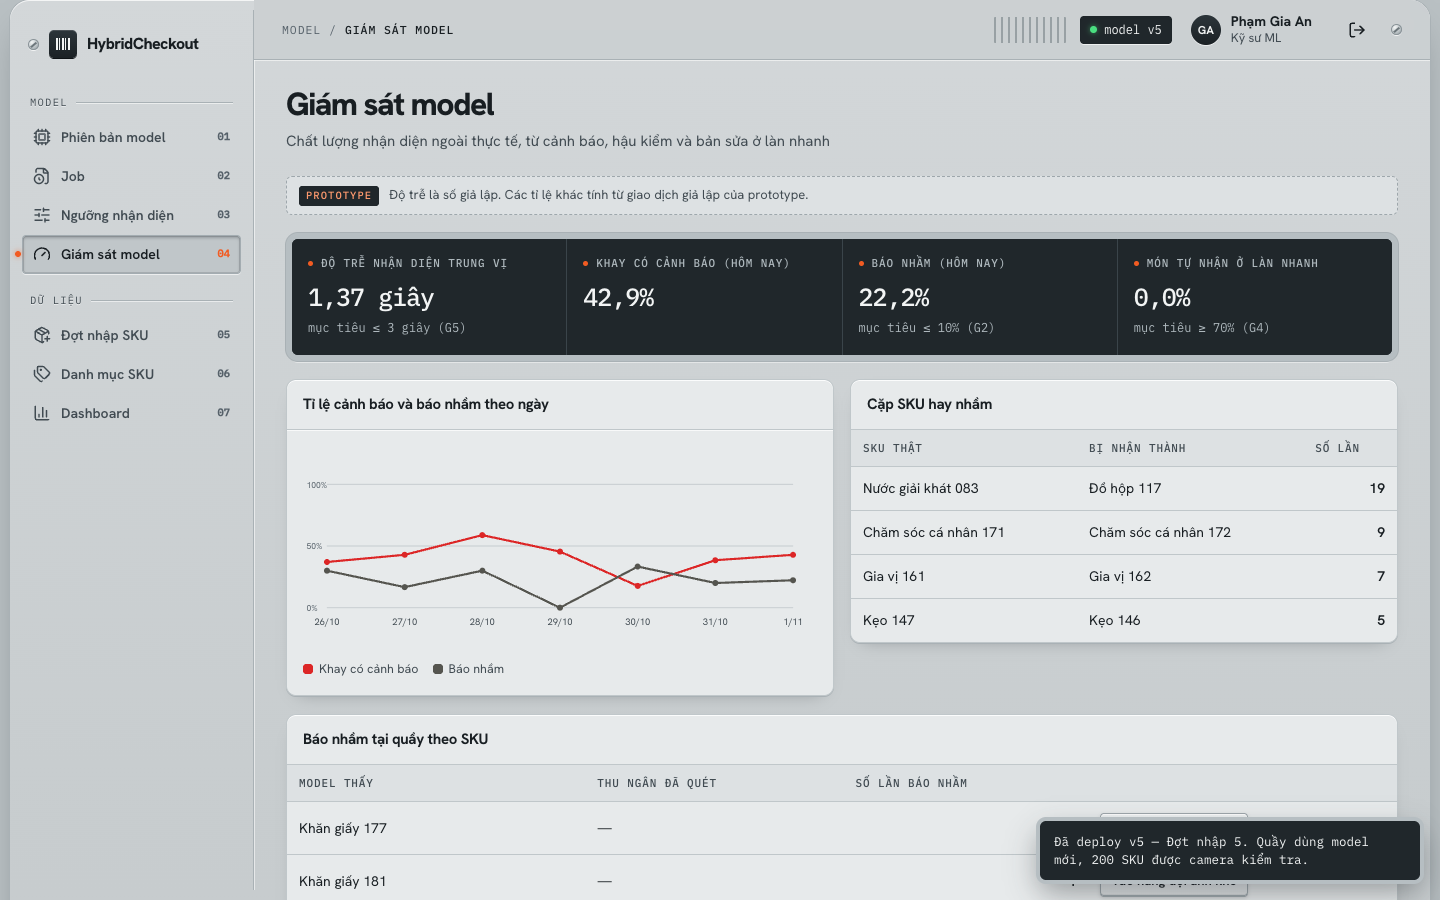
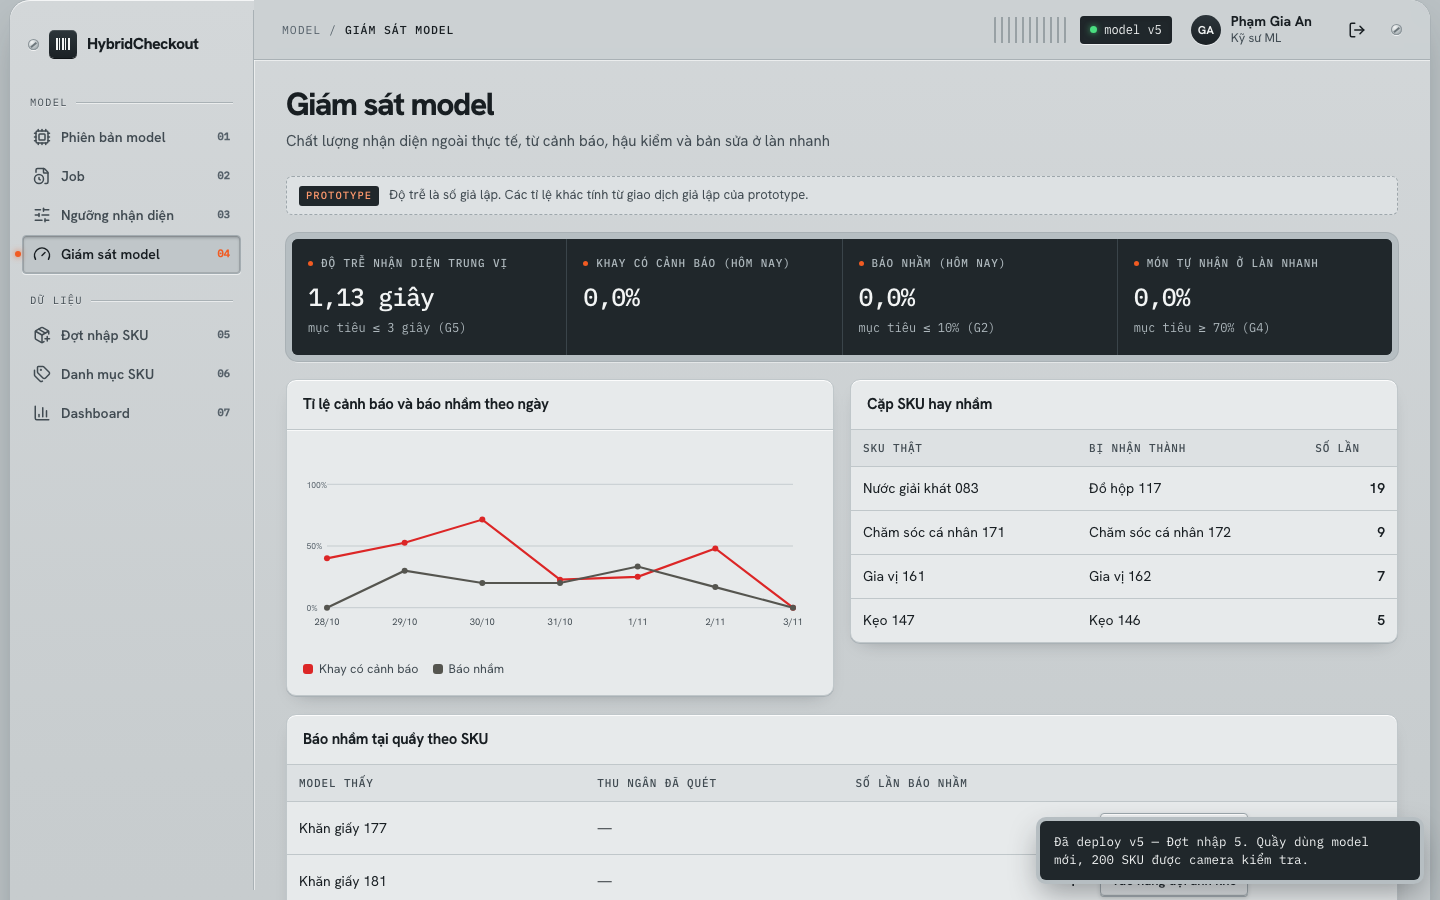
docs: mô tả yêu cầu model

diff --git a/frontend/src/mocks/models.ts b/frontend/src/mocks/models.ts
@@ -1,7 +1,5 @@
 /**
- * Model versions. cAcc / AP50 on val and GPU hours are real evaluation results of the recognition model
- * (one checkpoint per import batch). Reconciliation metrics
- * (missed-item recall, false alarms, swap detection) are ILLUSTRATIVE until the simulation is run.
+ * Model versions, one checkpoint per import batch. All metrics are ILLUSTRATIVE values for the prototype.
  */
 import { SKU_BY_LABEL } from "./catalog";
 
@@ -15,28 +13,27 @@ export interface ModelVersion {
   createdAt: string;
   cacc: number; // cAcc on val, %
   ap50: number; // AP50 on val, %
-  forgetting: number; // mean AP50 drop on earlier batches, points (measured: about 0)
+  forgetting: number; // mean AP50 drop on earlier batches, points
   gpuHours: number;
-  // Illustrative reconciliation metrics
   missRecall: number;
   falseAlarm: number;
   swapRecall: number;
 }
 
-const base = { backbone: "ConvNeXt-V2-Base + PDP", forgetting: 0 };
+const base = { backbone: "Detector" };
 
 export const MODEL_VERSIONS: ModelVersion[] = [
-  { ...base, id: "v1", name: "v1 — Khai trương", batch: 1, skuCount: 100, checkpoint: "checkpoints/batch_1.pth", createdAt: "2026-10-23T21:10:00+07:00", cacc: 79.38, ap50: 93.38, gpuHours: 11.0, missRecall: 95.1, falseAlarm: 5.8, swapRecall: 71.0 },
-  { ...base, id: "v2", name: "v2 — Đợt nhập 2", batch: 2, skuCount: 125, checkpoint: "checkpoints/batch_2.pth", createdAt: "2026-10-24T09:40:00+07:00", cacc: 73.64, ap50: 94.44, gpuHours: 5.36, missRecall: 94.6, falseAlarm: 6.4, swapRecall: 69.5 },
-  { ...base, id: "v3", name: "v3 — Đợt nhập 3", batch: 3, skuCount: 150, checkpoint: "checkpoints/batch_3.pth", createdAt: "2026-10-25T02:15:00+07:00", cacc: 65.04, ap50: 94.85, gpuHours: 5.23, missRecall: 93.8, falseAlarm: 7.1, swapRecall: 68.2 },
-  { ...base, id: "v4", name: "v4 — Đợt nhập 4", batch: 4, skuCount: 175, checkpoint: "checkpoints/batch_4.pth", createdAt: "2026-10-26T11:30:00+07:00", cacc: 56.33, ap50: 94.59, gpuHours: 5.18, missRecall: 93.0, falseAlarm: 7.9, swapRecall: 66.4 },
-  { ...base, id: "v5", name: "v5 — Đợt nhập 5", batch: 5, skuCount: 200, checkpoint: "checkpoints/batch_5.pth", createdAt: "", cacc: 43.68, ap50: 94.95, gpuHours: 5.9, missRecall: 92.4, falseAlarm: 8.6, swapRecall: 65.1 },
+  { ...base, id: "v1", name: "v1 — Khai trương", batch: 1, skuCount: 100, checkpoint: "checkpoints/batch_1.pth", createdAt: "2026-10-23T21:10:00+07:00", cacc: 81.5, ap50: 95.2, forgetting: 0, gpuHours: 8.0, missRecall: 95.1, falseAlarm: 5.8, swapRecall: 71.0 },
+  { ...base, id: "v2", name: "v2 — Đợt nhập 2", batch: 2, skuCount: 125, checkpoint: "checkpoints/batch_2.pth", createdAt: "2026-10-24T09:40:00+07:00", cacc: 77.0, ap50: 95.0, forgetting: 0.6, gpuHours: 3.0, missRecall: 94.6, falseAlarm: 6.4, swapRecall: 69.5 },
+  { ...base, id: "v3", name: "v3 — Đợt nhập 3", batch: 3, skuCount: 150, checkpoint: "checkpoints/batch_3.pth", createdAt: "2026-10-25T02:15:00+07:00", cacc: 72.5, ap50: 94.7, forgetting: 0.9, gpuHours: 3.1, missRecall: 93.8, falseAlarm: 7.1, swapRecall: 68.2 },
+  { ...base, id: "v4", name: "v4 — Đợt nhập 4", batch: 4, skuCount: 175, checkpoint: "checkpoints/batch_4.pth", createdAt: "2026-10-26T11:30:00+07:00", cacc: 67.0, ap50: 94.8, forgetting: 1.2, gpuHours: 3.2, missRecall: 93.0, falseAlarm: 7.9, swapRecall: 66.4 },
+  { ...base, id: "v5", name: "v5 — Đợt nhập 5", batch: 5, skuCount: 200, checkpoint: "checkpoints/batch_5.pth", createdAt: "", cacc: 61.5, ap50: 94.6, forgetting: 1.4, gpuHours: 3.3, missRecall: 92.4, falseAlarm: 8.6, swapRecall: 65.1 },
 ];
 
 /** Gate conditions of BR-09 (docs/02-use-case-user-stories.md). */
 export const GATE = { maxAp50Drop: 1, maxForgetting: 5, minMissRecall: 90, maxFalseAlarm: 10 };
 
-/** Most confused SKU pairs on val, as model labels -> SKU ids. */
+/** Most confused SKU pairs (illustrative), as model labels -> SKU ids. */
 export const CONFUSED_PAIRS = [
   { from: 41, to: 59, count: 19 },
   { from: 84, to: 85, count: 9 },

diff --git a/frontend/src/features/ml/ModelsPage.tsx b/frontend/src/features/ml/ModelsPage.tsx
@@ -16,7 +16,7 @@ export function ModelsPage() {
   return (
     <>
       <PageHeader title="Phiên bản model" sub="Mỗi đợt nhập sinh một phiên bản; chỉ một phiên bản chạy ở quầy tại một thời điểm" />
-      <DemoNote>AP50, cAcc (tập val) và giờ GPU là kết quả đánh giá thật của model. Chỉ số đối chiếu (bắt món sót, báo nhầm) là số minh họa của prototype.</DemoNote>
+      <DemoNote>Mọi chỉ số model (AP50, cAcc, mức quên, giờ GPU, bắt món sót, báo nhầm) là số minh họa của prototype.</DemoNote>
       <div className="stats">
         <Stat label="Đang chạy ở quầy" value={active.id} hint={active.name} tone="ok" />
         <Stat label="SKU camera nhận diện" value={active.skuCount} />
@@ -29,7 +29,7 @@ export function ModelsPage() {
             { name: "AP50", color: "#20272b", values: shown.map((v) => v.ap50) },
             { name: "cAcc", color: "#f59e0b", values: shown.map((v) => v.cacc) },
           ]} />
-          <p className="small muted" style={{ marginTop: 8 }}>AP50 giữ ổn định khi thêm SKU (model không quên SKU cũ). cAcc giảm vì khay chứa nhiều SKU hơn và mỗi khay có nhiều món: đúng từng món tốt chưa đủ để đúng cả khay, nên mã vạch vẫn là kênh tính tiền.</p>
+          <p className="small muted" style={{ marginTop: 8 }}>AP50 giữ ổn định khi thêm SKU (model gần như không quên SKU cũ). cAcc giảm vì khay chứa nhiều SKU hơn và mỗi khay có nhiều món: đúng từng món tốt chưa đủ để đúng cả khay, nên mã vạch vẫn là kênh tính tiền.</p>
         </Card>
         <Card title="Dòng thời gian">
           <div className="col" style={{ gap: 10 }}>
@@ -51,7 +51,7 @@ export function ModelsPage() {
             return (
               <tr key={v.id} className="clickable" onClick={() => navigate(`/models/${v.id}`)}>
                 <td className="strong">{v.name}</td><td>#{v.batch}</td><td className="num">{v.skuCount}</td><td className="num">{pct(v.ap50, 2)}</td>
-                <td className="num">{pct(v.cacc, 2)}</td><td className="num">≈ 0</td><td className="num">{v.gpuHours}</td>
+                <td className="num">{pct(v.cacc, 2)}</td><td className="num">{v.forgetting.toLocaleString("vi-VN")}</td><td className="num">{v.gpuHours}</td>
                 <td>{pass ? <span className="badge ok">Đạt</span> : <span className="badge danger">Không đạt</span>}</td><td><VersionBadge status={versionStatus[v.id]} /></td>
               </tr>
             );

diff --git a/frontend/src/features/ml/ModelDetailPage.tsx b/frontend/src/features/ml/ModelDetailPage.tsx
@@ -22,7 +22,7 @@ export function ModelDetailPage() {
   const base = status === "PENDING_REVIEW" ? active : MODEL_VERSIONS.find((m) => m.batch === v.batch - 1);
   const gates = [
     { name: "AP50 val không giảm quá 1 điểm", cand: pct(v.ap50, 2), ref: base ? pct(base.ap50, 2) : "—", pass: !base || v.ap50 >= base.ap50 - GATE.maxAp50Drop },
-    { name: `Mức quên SKU cũ ≤ ${GATE.maxForgetting} điểm AP50`, cand: "≈ 0", ref: "—", pass: v.forgetting <= GATE.maxForgetting },
+    { name: `Mức quên SKU cũ ≤ ${GATE.maxForgetting} điểm AP50`, cand: `${v.forgetting.toLocaleString("vi-VN")} điểm`, ref: "—", pass: v.forgetting <= GATE.maxForgetting },
     { name: `Bắt món sót (giả lập) ≥ ${GATE.minMissRecall}%`, cand: pct(v.missRecall), ref: base ? pct(base.missRecall) : "—", pass: v.missRecall >= GATE.minMissRecall },
     { name: `Báo nhầm trên khay quét đủ (giả lập) ≤ ${GATE.maxFalseAlarm}%`, cand: pct(v.falseAlarm), ref: base ? pct(base.falseAlarm) : "—", pass: v.falseAlarm <= GATE.maxFalseAlarm },
   ];
@@ -70,7 +70,7 @@ export function ModelDetailPage() {
             <tr key={`${p.from}-${p.to}`}><td><Link to={`/skus/${p.from}`}>{sku(p.from).name}</Link></td><td><Link to={`/skus/${p.to}`}>{sku(p.to).name}</Link></td><td>{sku(p.from).categoryName}</td><td className="num">{p.count}</td></tr>
           ))}</tbody>
         </table></div>
-        <p className="small faint" style={{ padding: "8px 16px 14px" }}>Nguồn: kết quả đánh giá model trên tập val.</p>
+        <p className="small faint" style={{ padding: "8px 16px 14px" }}>Số minh họa của prototype; khi có backend sẽ lấy từ kết quả đánh giá trên tập val.</p>
       </Card>
 
       {confirm === "deploy" && (

diff --git a/frontend/src/app/store.tsx b/frontend/src/app/store.tsx
@@ -175,7 +175,7 @@ export function StoreProvider({ children }: { children: ReactNode }) {
       setJobs((js) => js.map((j) => {
         if (j.id !== running.id) return j;
         if (j.status === "RUNNING" && j.epoch < j.epochs) {
-          return { ...j, epoch: j.epoch + 1, gpuHours: +(j.gpuHours + 5.9 / 16).toFixed(2), log: [...j.log, `Epoch ${j.epoch + 1}/${j.epochs} xong`] };
+          return { ...j, epoch: j.epoch + 1, gpuHours: +(j.gpuHours + 3.3 / 16).toFixed(2), log: [...j.log, `Epoch ${j.epoch + 1}/${j.epochs} xong`] };
         }
         if (j.status === "RUNNING") return { ...j, status: "EVALUATING", log: [...j.log, "Đánh giá trên tập kiểm tra ảnh thật của các đợt 1–5"] };
         return { ...j, status: "SUCCEEDED", finishedAt: new Date().toISOString(), log: [...j.log, "Đăng ký phiên bản v5 — chờ duyệt"] };

diff --git a/frontend/src/features/ml/JobsPage.tsx b/frontend/src/features/ml/JobsPage.tsx
@@ -30,7 +30,7 @@ export function JobsPage() {
         <Card title={open ? `Chi tiết ${open.id}` : "Chi tiết job"}>
           {open ? (
             <div className="col" style={{ gap: 10 }}>
-              <div className="row"><JobBadge status={open.status} /><span className="spacer" /><span className="small muted">Đợt {open.batch} · 16 epoch · ConvNeXt-V2-Base + PDP</span></div>
+              <div className="row"><JobBadge status={open.status} /><span className="spacer" /><span className="small muted">Đợt {open.batch} · {open.epochs} epoch</span></div>
               <pre className="mono" style={{ background: "#20272b", color: "#f2f4f4", padding: 12, borderRadius: 8, maxHeight: 320, overflow: "auto", margin: 0, whiteSpace: "pre-wrap" }}>
                 {open.log.join("\n")}
               </pre>

diff --git a/frontend/src/mocks/seed.ts b/frontend/src/mocks/seed.ts
@@ -146,7 +146,7 @@ export const PAST_JOBS: Job[] = MODEL_VERSIONS.slice(0, 4).map((v) => ({
   gpuHours: v.gpuHours,
   startedAt: new Date(new Date(v.createdAt).getTime() - v.gpuHours * 3600_000).toISOString(),
   finishedAt: v.createdAt,
-  log: [`Huấn luyện đợt ${v.batch} trên RTX 4090`, "16/16 epoch", `Đánh giá val: cAcc ${v.cacc}% · AP50 ${v.ap50}%`, "Đăng ký phiên bản " + v.id],
+  log: [`Huấn luyện đợt ${v.batch}`, "16/16 epoch", `Đánh giá val: cAcc ${v.cacc}% · AP50 ${v.ap50}%`, "Đăng ký phiên bản " + v.id],
 }));
 
 export const PAST_AUDIT: AuditEntry[] = [

diff --git a/scripts/prepare_samples.py b/scripts/prepare_samples.py
@@ -1,21 +1,23 @@
-"""Copy a few RPC tray images and the SKU list from the model repo into the UI prototype.
+"""Copy a few composite tray images into the UI prototype.
 
-Reads (never writes) the model repo:
-  configs/tasks_100-4x25_seed0.json             -> which SKU belongs to which task
-  data/synth_v2_sample_v1/annotations/task_*.json -> boxes of the sample tray images
+Reads (never writes) a folder of composite trays built from RPC product images, COCO style:
+  <data-dir>/annotations/task_<n>.json  images (file_name, width, height, level) and boxes
+                                        (category_id = RPC id, labeled, visible_fraction, cutout_id)
+  <data-dir>/<file_name>                the tray images
+and the demo SKU split frontend/src/mocks/generated/skus.json
+(200 RPC SKU: 100 at opening, then 4 import batches of 25).
 
 Writes:
-  frontend/src/mocks/generated/skus.json     200 SKU (rpc id, category, task)
   frontend/src/mocks/generated/samples.json  chosen trays, boxes normalised to 0..1
   frontend/src/mocks/generated/cutouts.json  product cutouts of the batch-5 SKU, per SKU
   frontend/public/samples/*.jpg              trays resized to 960 px (gitignored, CC BY-NC-SA 4.0)
   frontend/public/samples/cutouts/*.jpg      one crop per distinct cutout, 220 px (same licence)
 
-The sample trays are composites (product cutouts pasted on a tray background), so each box crop
-shows one cutout; the prototype uses these crops as the "sample photos" of a new SKU.
+Each box crop of a composite shows one product cutout; the prototype uses these crops as the
+"sample photos" of a new SKU.
 
 Usage:
-  python3 scripts/prepare_samples.py --model-repo <path to the model repo>
+  python3 scripts/prepare_samples.py --data-dir <folder of composite trays>
 Resizing uses `sips` (built into macOS).
 """
 
@@ -37,18 +39,14 @@ CUTOUT_SIZE = 220
 
 def main():
     parser = argparse.ArgumentParser()
-    parser.add_argument("--model-repo", required=True, type=Path)
+    parser.add_argument("--data-dir", required=True, type=Path)
     args = parser.parse_args()
 
-    config = json.loads((args.model_repo / "configs/tasks_100-4x25_seed0.json").read_text())
-    skus = [
-        {"rpcId": c["rpc_category_id"], "label": c["label"], "category": c["supercategory"],
-         "task": t["task_id"]}
-        for t in config["tasks"] if not t["reserved"] for c in t["classes"]
-    ]
+    out_data = ROOT / "frontend/src/mocks/generated"
+    skus = json.loads((out_data / "skus.json").read_text())
     task_of = {s["rpcId"]: s["task"] for s in skus}
 
-    sample_dir = args.model_repo / "data/synth_v2_sample_v1"
+    sample_dir = args.data_dir
     out_images = ROOT / "frontend/public/samples"
     out_images.mkdir(parents=True, exist_ok=True)
     samples = []
@@ -77,9 +75,6 @@ def main():
 
     cutouts = crop_cutouts(sample_dir, task_of, ROOT / "frontend/public/samples/cutouts")
 
-    out_data = ROOT / "frontend/src/mocks/generated"
-    out_data.mkdir(parents=True, exist_ok=True)
-    (out_data / "skus.json").write_text(json.dumps(skus, indent=1))
     (out_data / "samples.json").write_text(json.dumps(samples, indent=1))
     (out_data / "cutouts.json").write_text(json.dumps(cutouts, indent=1))
     print(f"{len(skus)} SKU, {len(samples)} trays, "

diff --git a/docs/07-c4.md b/docs/07-c4.md
@@ -17,7 +17,6 @@ flowchart TB
 
     camera["Camera IP tại quầy<br/><small>[Thiết bị] Chụp khay từ trên xuống</small>"]
     devices["Máy quét mã vạch, máy in<br/><small>[Thiết bị] Nối vào máy tính quầy</small>"]
-    model["Model nhận diện đang nghiên cứu<br/><small>[Phần mềm ngoài] Code suy luận và huấn luyện,<br/>dùng theo phiên bản, không sửa</small>"]
 
     cashier -- "bán hàng tại quầy" --> hc
     manager -- "xác nhận, quản lý cửa hàng" --> hc
@@ -25,14 +24,13 @@ flowchart TB
     admin -- "cấu hình" --> hc
     devices -- "mã vạch (bàn phím USB) / in hóa đơn" --- hc
     hc -- "lấy ảnh khay [HTTP snapshot]" --> camera
-    hc -- "gọi suy luận, huấn luyện [thư viện Python]" --> model
 
     classDef person fill:#08427b,color:#fff,stroke:#052e56
     classDef focus fill:#1168bd,color:#fff,stroke:#0b4884
     classDef ext fill:#8a8a8a,color:#fff,stroke:#6b6b6b
     class cashier,manager,ml,admin person
     class hc focus
-    class camera,devices,model ext
+    class camera,devices ext
 ```
 
 **Ngoài phạm vi** (Bước 1): thanh toán thật (thẻ và chuyển khoản là giả lập), kết nối POS/ERP có sẵn, quầy tự thanh toán. Mỗi bản cài phục vụ **một cửa hàng**.

diff --git a/docs/06-api.md b/docs/06-api.md
@@ -257,7 +257,7 @@ Lỗi chung: `UNAUTHENTICATED` 401 · `FORBIDDEN` 403 · `NOT_FOUND` 404 · `VAL
 
 ## 6. Dịch vụ nhận diện (API nội bộ)
 
-Dịch vụ bọc model nhận diện đang nghiên cứu (D07). Nó không truy cập PostgreSQL và không biết gì về nghiệp vụ. Ngưỡng cảnh báo, đối chiếu và tự thêm món đều do backend làm.
+Dịch vụ bọc model nhận diện sau một API cố định (D07). Nó không truy cập PostgreSQL và không biết gì về nghiệp vụ. Ngưỡng cảnh báo, đối chiếu và tự thêm món đều do backend làm.
 
 | | Path | Ai gọi | Làm gì |
 |---|---|---|---|

diff --git a/README.md b/README.md
@@ -465,7 +465,7 @@ Khung đã tạo thật, chưa có logic: `uv run pytest` và `ruff` pass, `dock
 Prototype React + TypeScript + Vite, dữ liệu giả lập trong bộ nhớ, thuật toán đối chiếu là code thật có unit test.
 
 ```bash
-python3 scripts/prepare_samples.py --model-repo <đường dẫn repo model>   # chép ảnh khay mẫu
+python3 scripts/prepare_samples.py --data-dir <thư mục ảnh khay ghép từ RPC>   # chép ảnh khay mẫu
 cd frontend && npm install
 npm run dev      # http://localhost:5173
 npm test         # unit test: đối chiếu khay, hậu kiểm, box
